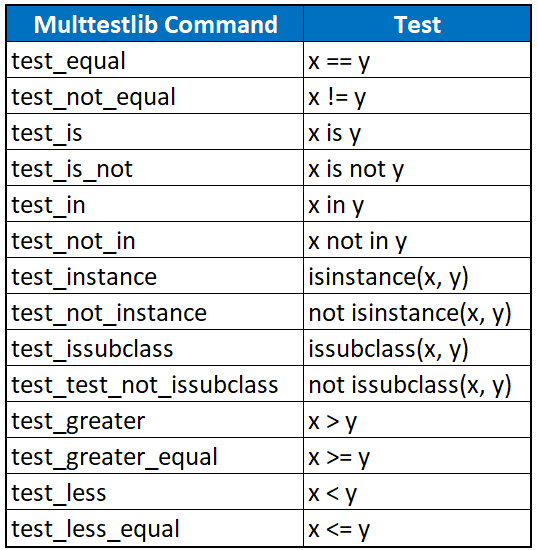
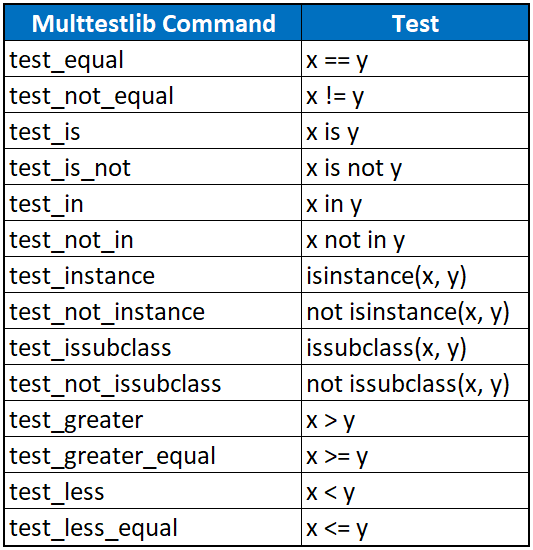
Version 1.0

Changed region(s): [[0.0, 0.0, 1.0, 1.0]]

diff --git a/src/multtestlib.py b/src/multtestlib.py
@@ -1,13 +1,14 @@
 '''
-    multtestlib 2023.4
+    multtestlib 1.0
     Python package for running unit tests in parallel processing.
-    Engine II
     By Ricardo Ribeiro de Alvarenga
        alvarenga.r.ricardo@gmail.com
 
-    ITA - Instituto Tecnológico de Aeronáutica - BRAZIL
+    ITA - Instituto Tecnológico de Aeronáutica - Brasil
+          Aeronautics Institute of Thecnology  - Brazil
+    
 
-    December 2023
+    March 2024
 
 '''
 
@@ -249,11 +250,11 @@ def about():
     print(" Author: Ricardo Ribeiro de Alvarenga")
     print("         ITA - Instituto Tecnologico de Aeronáutica")
     print("         Brazil")
-    print(" Version: 2023.4 (Engine II)")
+    print(" Version: 1.0")
     print("")
 
 
-def sos():
+def help():
     print("")
     print("")
     print("-----------------------------------------------")
@@ -268,7 +269,7 @@ def sos():
     print("test_instance             isinstance(x, y)")
     print("test_not_instance         not isinstance(x, y)")
     print("test_issubclass           issubclass(x, y)")
-    print("test_test_not_issubclass  not issubclass(x, y)")
+    print("test_not_issubclass       not issubclass(x, y)")
     print("test_greater              x > y")
     print("test_greater_equal        x >= y")
     print("test_less                 x < y")
